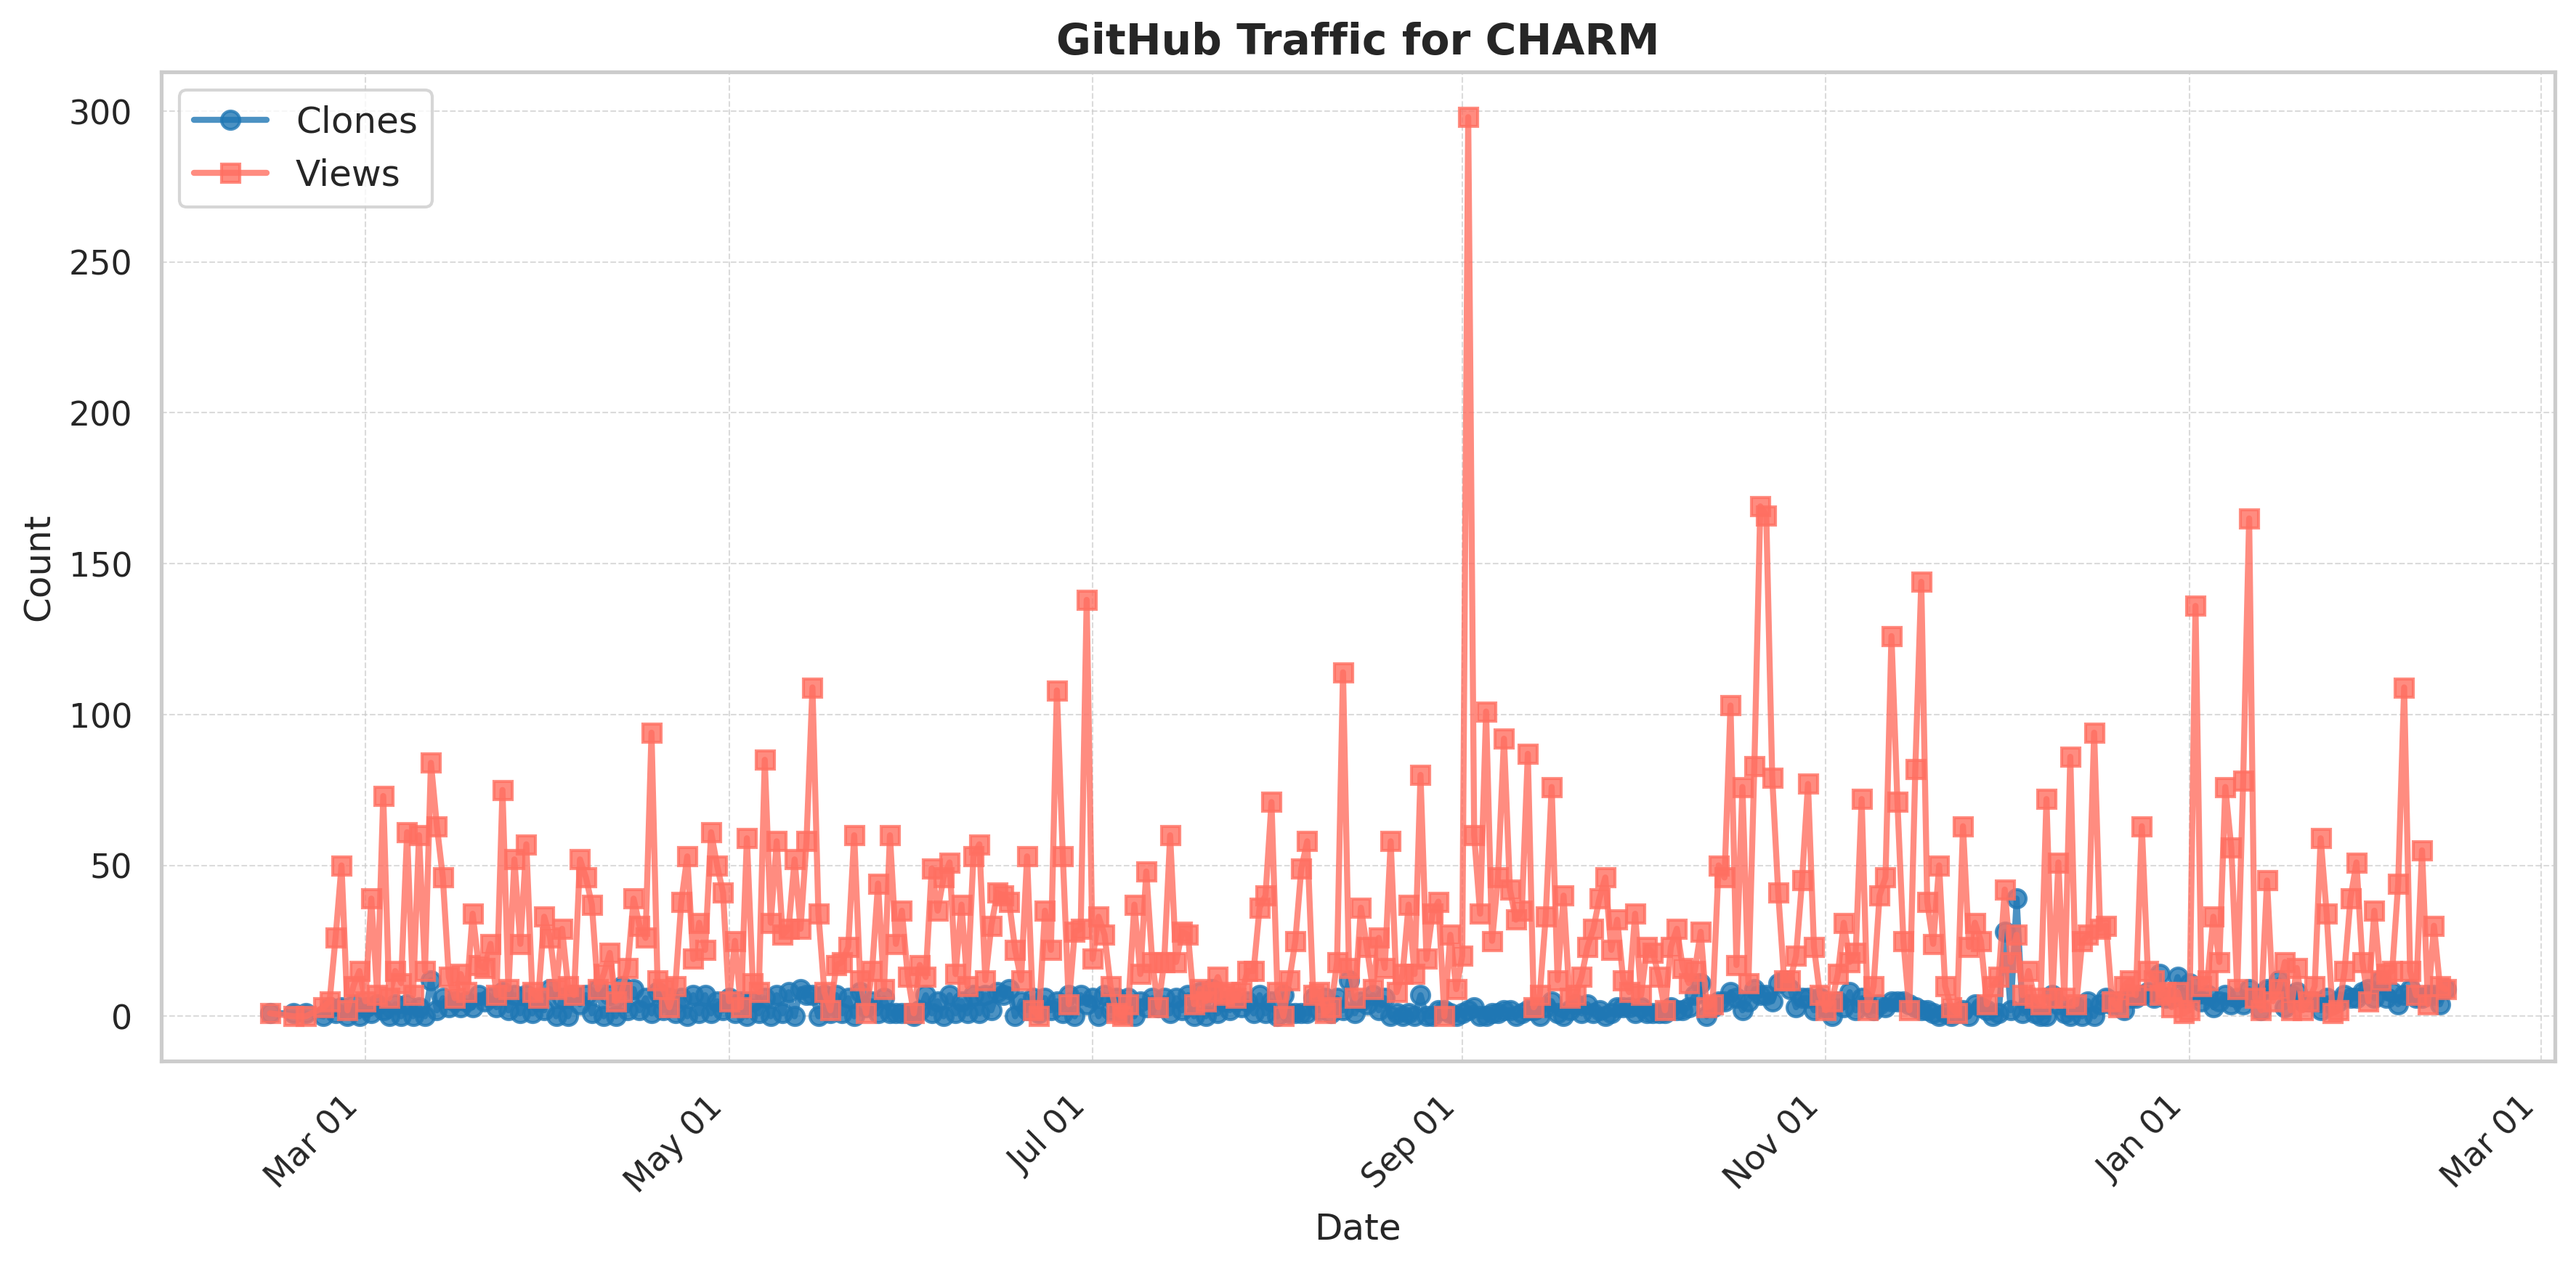
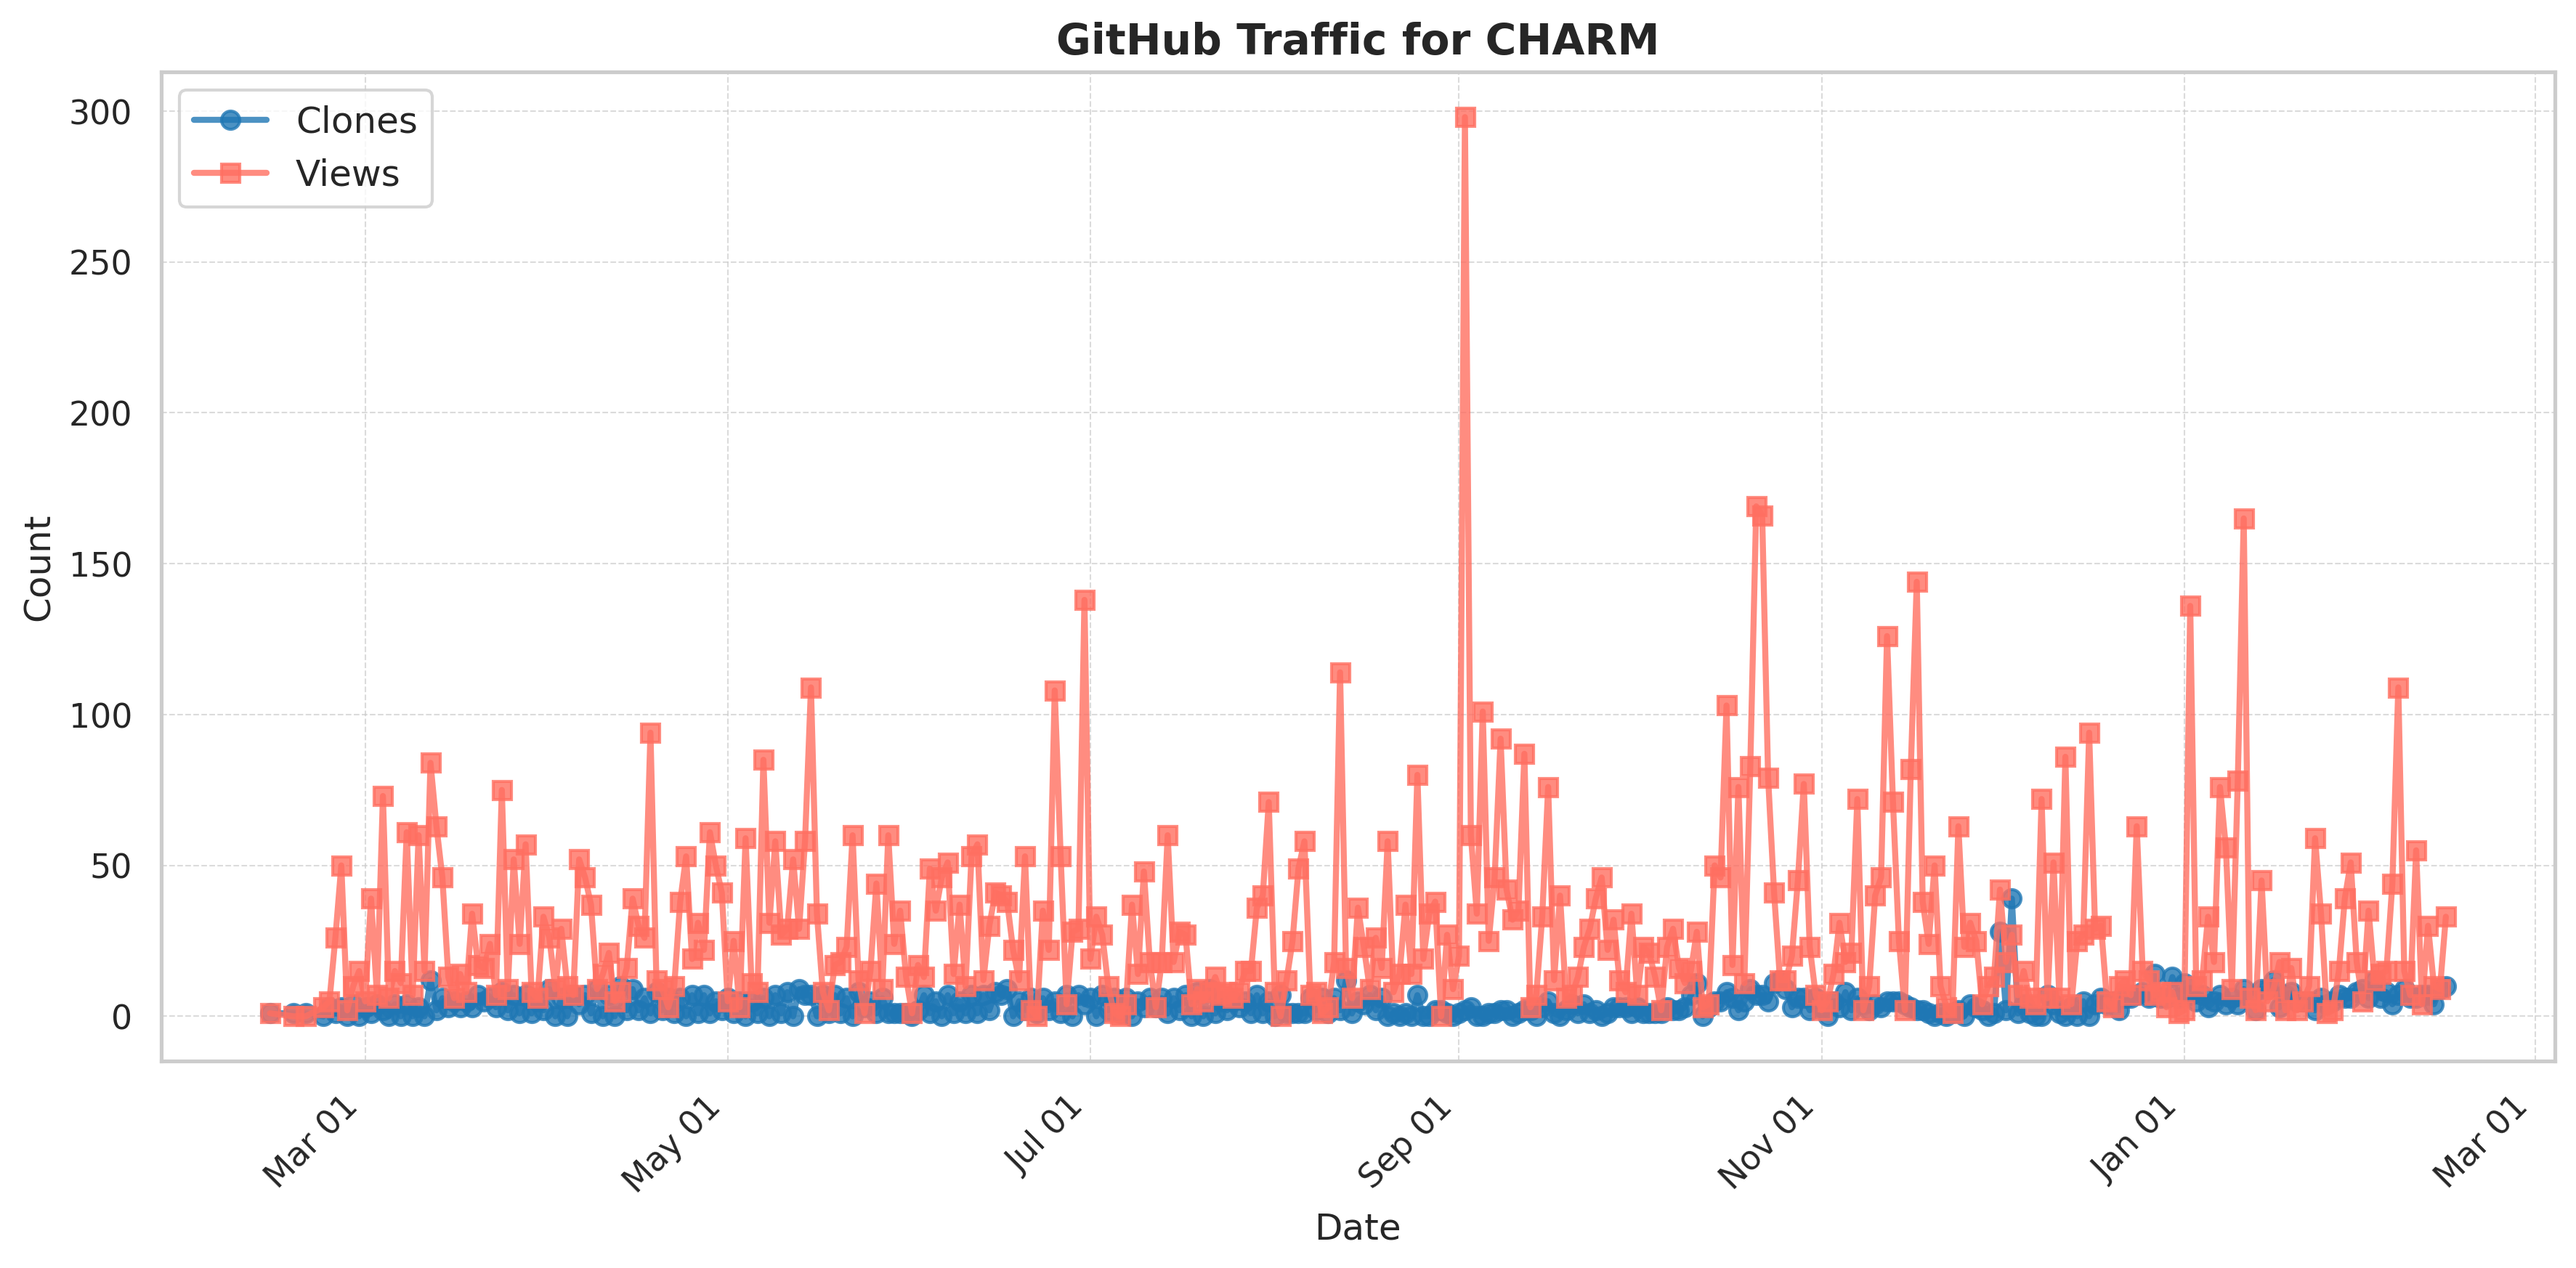
Auto-generated traffic_plot.png and plot_data.csv

diff --git a/README.md b/README.md
@@ -13,8 +13,8 @@ AMD Collaborators: Stephen Neuendorffer, Jack Lo, and Kristof Denolf
 
 ## 🚀 Thank You for Using CHARM! ! !
 ### Your support and growing engagement inspire us to continually improve and enhance the project.
-+ Total Views since 02/13/2025: <!--VIEWS-->10784<!--/VIEWS-->
-+ Total Downloads since 02/13/2025: <!--CLONES-->1447<!--/CLONES-->
++ Total Views since 02/13/2025: <!--VIEWS-->10817<!--/VIEWS-->
++ Total Downloads since 02/13/2025: <!--CLONES-->1457<!--/CLONES-->
 <img src="./plot/CHARM_traffic_plot.png" width="600" />
 
 
